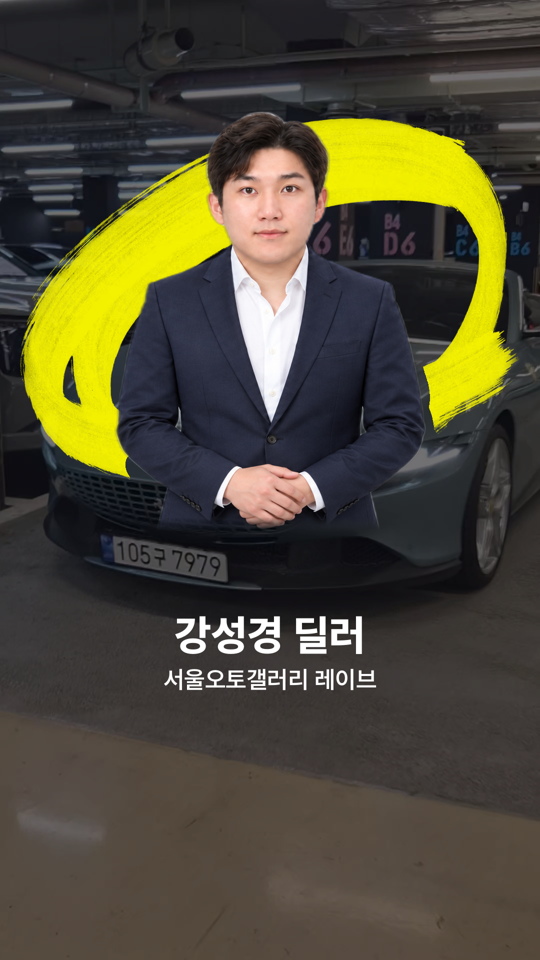
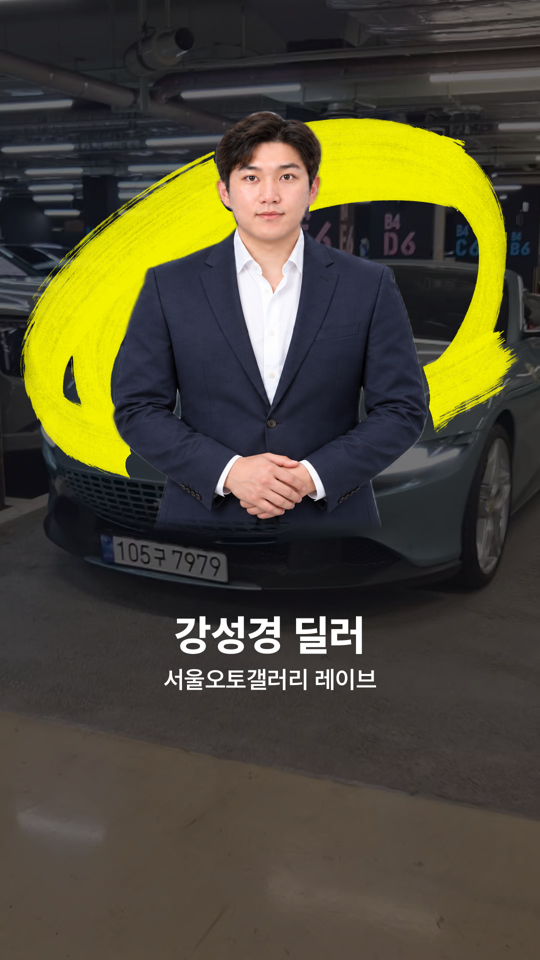
인물 컷아웃: 머리 비율을 줄인 정장 사진(머리 대 어깨 0.37 → 원본 수준)
Claude-Session: https://claude.ai/code/session_01AMh7xoXiuzDvjCLxYCuX6F

diff --git a/reports/work-roma-spider.md b/reports/work-roma-spider.md
@@ -250,3 +250,6 @@ r12는 **86점 / 100점**(r11 79점에서 +7)이다. 숫자 위치, ✓ 목록, 
 
 ![움직임 0.1·0.4·0.7초](work-roma-spider/brush_cutout_anim.png)
 - 손(사용자 「손 단정하게」): 주머니에 넣은 손을 허리 앞에서 가지런히 모은 자세로 바꿈(같은 사진에서 손만 바꾸는 편집, 4장 중 1장, 약 433크레딧 × 4). 손이 흐려지지 않게 아래 끝 사라짐을 70px → 28px로 줄임.
+- 얼굴 크기(사용자 「얼굴이 너무 커」): 머리 대 어깨 비율이 0.37로 원본 리싱마크트 인물(0.33)보다 머리가 컸다. 사람 전체를 줄이면 원본 칠의 가려졌던 구멍이 드러나서(줄여 본 시안에서 확인), 사진 쪽 비율을 고침 — 머리 약 15% 작게·어깨 조금 넓게(AI 편집 4장 중 얼굴이 가장 닮은 1장, 약 433크레딧 × 4). 칠 구멍 없음, 번호판 안 덮음.
+
+![얼굴 크기 전(왼쪽)·후(오른쪽)](work-roma-spider/brush_cutout_head_before_after.png)
